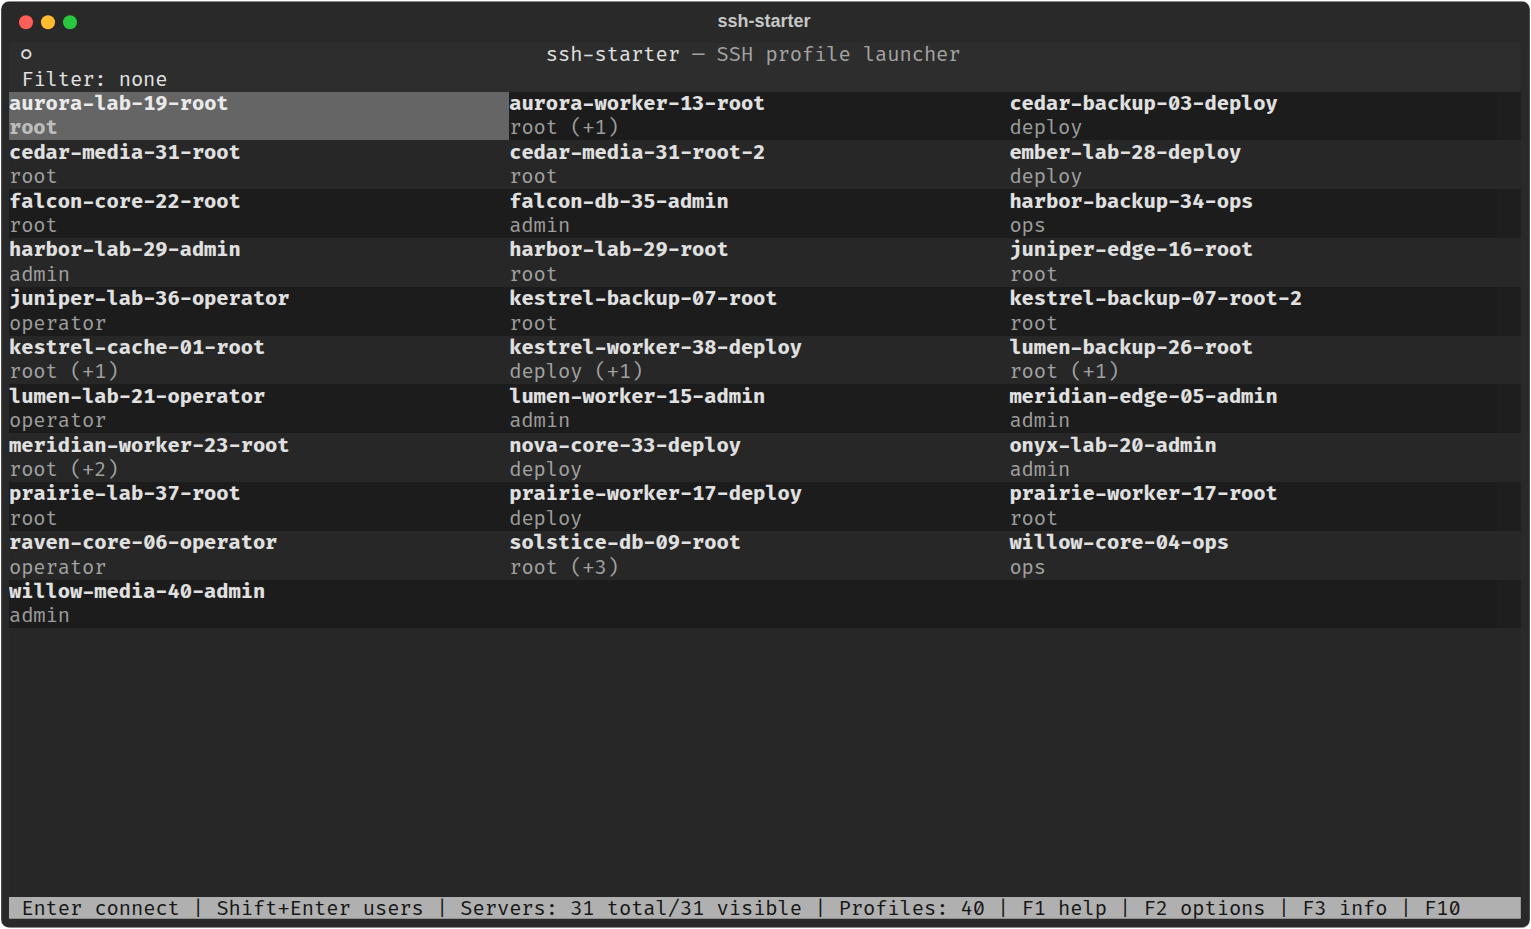
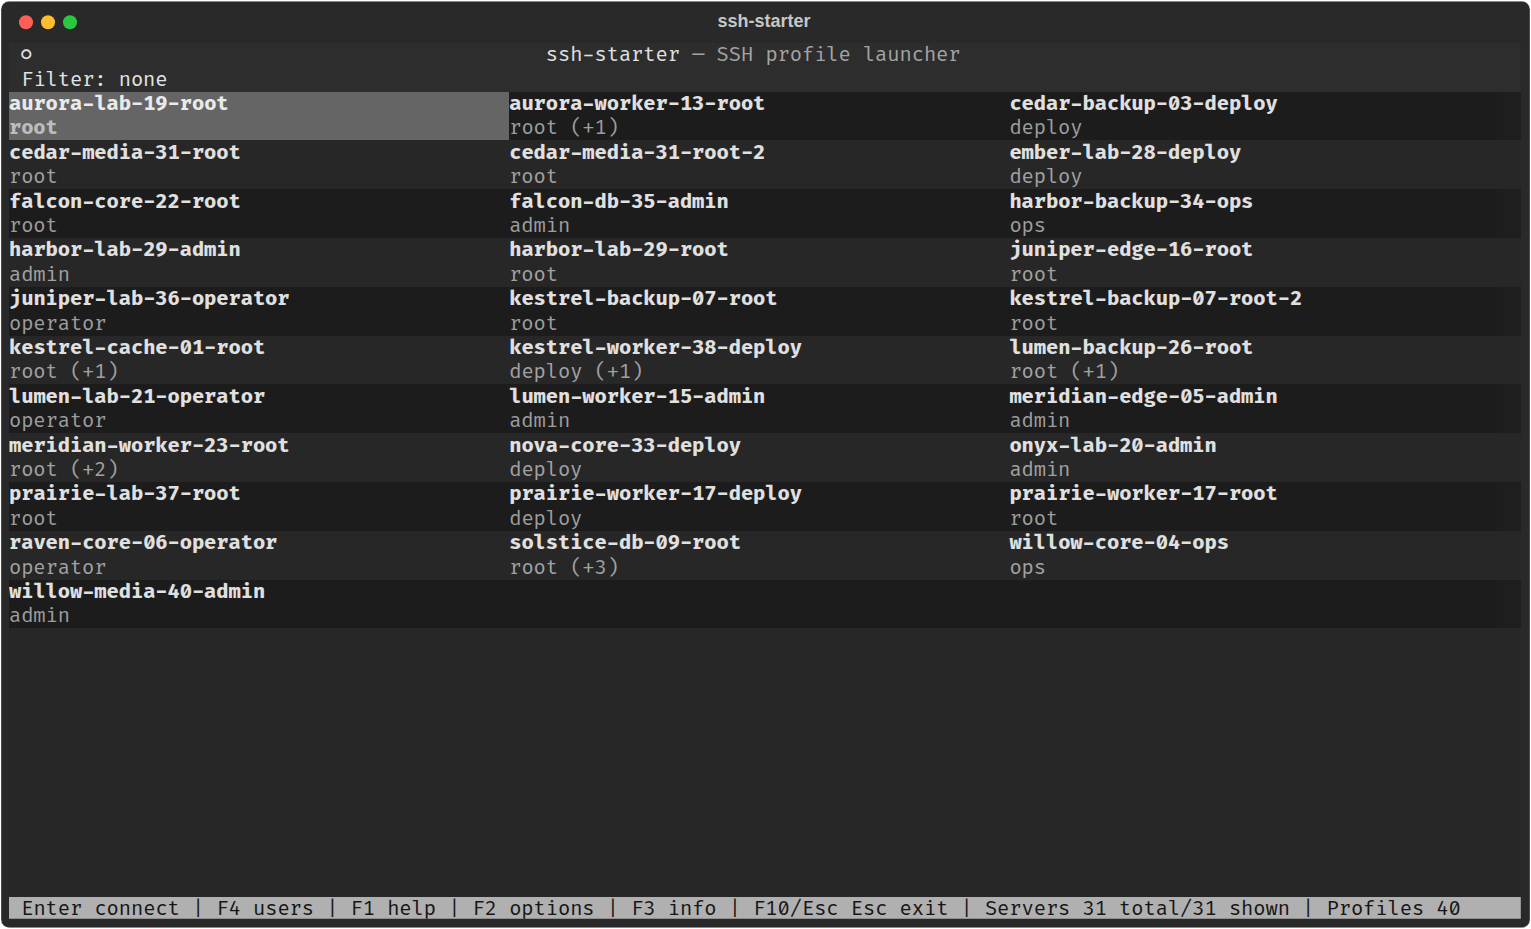
Improve Windows user picker shortcut

Changed region(s): [[0.1228, 0.9677, 0.9517, 0.9989]]

diff --git a/app/ui.py b/app/ui.py
@@ -23,7 +23,7 @@ GRID_COLUMNS = 3
 FIT_HORIZONTAL_RESERVE = 2
 DOUBLE_ESCAPE_SECONDS = 1.25
 SEARCH_EXTRA_CHARS = {"-", "_", ".", "@"}
-USER_PICKER_KEYS = {"shift+enter", "ctrl+enter", "ctrl+j", "ctrl+m"}
+USER_PICKER_KEYS = {"f4", "shift+enter", "ctrl+enter", "ctrl+j", "ctrl+m", "ctrl+@"}
 
 
 class MainProfileGrid(DataTable):
@@ -311,8 +311,9 @@ class HelpScreen(ModalScreen[None]):
 ## Main menu
 
 - `Enter` connects to the selected server with its default profile.
-- `Shift+Enter` opens the user/profile picker.
-- `Ctrl+Enter` is still accepted when the terminal sends it through. Some terminals encode it as `Ctrl+J` or `Ctrl+M`; those are supported too.
+- `F4` opens the user/profile picker.
+- `Shift+Enter` also opens the picker when the terminal reports it distinctly from plain `Enter`.
+- `Ctrl+Enter` is still accepted when the terminal sends it through. Some terminals encode modified Enter keys as `Ctrl+J`, `Ctrl+M`, or `Ctrl+@`; those are supported too.
 - `F1` opens this help.
 - `F2` opens options.
 - `F3` opens details for the selected server's default profile.
@@ -580,10 +581,12 @@ class SshLauncherApp(App[None]):
 
     BINDINGS = [
         Binding("enter", "connect", "Connect"),
+        Binding("f4", "choose_user", "Users", priority=True),
         Binding("shift+enter", "choose_user", "Users", priority=True),
         Binding("ctrl+enter", "choose_user", "Users", show=False, priority=True),
         Binding("ctrl+j", "choose_user", "Users", show=False, priority=True),
         Binding("ctrl+m", "choose_user", "Users", show=False, priority=True),
+        Binding("ctrl+@", "choose_user", "Users", show=False, priority=True),
         Binding("f1", "help", "Help", priority=True),
         Binding("f2", "options", "Options", priority=True),
         Binding("f3", "profile_info", "Info"),
@@ -817,10 +820,10 @@ class SshLauncherApp(App[None]):
         filter_display = self.filter_text or "none"
         self.query_one("#filter-line", Static).update(f"Filter: {filter_display}")
         self.query_one("#status-line", Static).update(
-            "Enter connect | Shift+Enter users | "
-            f"Servers: {len(self.connection_groups)} total/{len(self.filtered_groups)} visible | "
-            f"Profiles: {len(self.inventory.profiles)} | "
-            "F1 help | F2 options | F3 info | F10 exit | Esc Esc exit"
+            "Enter connect | F4 users | F1 help | F2 options | F3 info | "
+            "F10/Esc Esc exit | "
+            f"Servers {len(self.connection_groups)} total/{len(self.filtered_groups)} shown | "
+            f"Profiles {len(self.inventory.profiles)}"
         )
 
     def _selected_group(self) -> SshConnectionGroup | None:

diff --git a/README.md b/README.md
@@ -123,8 +123,9 @@ C:\Users\<user>\.ssh\config
 ## Keys
 
 - `Enter` — connect to the selected server with its default profile.
-- `Shift+Enter` — open the user/profile picker for the selected server.
-- `Ctrl+Enter` — also accepted when the terminal passes it through. Some terminals send this as `Ctrl+J` or `Ctrl+M`; `ssh-starter` handles those too.
+- `F4` — open the user/profile picker for the selected server.
+- `Shift+Enter` — also opens the picker when the terminal reports it distinctly from plain `Enter`.
+- `Ctrl+Enter` — also accepted when the terminal passes it through. Some terminals encode modified Enter keys as `Ctrl+J`, `Ctrl+M`, or `Ctrl+@`; `ssh-starter` handles those too.
 - `F1` — open help.
 - `F2` — open options.
 - `F3` — show details for the selected server's default profile.
@@ -167,7 +168,7 @@ The default profile for a group is selected in this order:
 1. users listed in `preferred_users`;
 2. the first sorted profile in the group.
 
-`Enter` connects with that default profile. `Ctrl+Enter` opens a menu where you can select another user/profile for the same server. Clicking a server in the main grid connects with the default profile; clicking a profile in the picker selects that profile.
+`Enter` connects with that default profile. `F4` opens a menu where you can select another user/profile for the same server. Clicking a server in the main grid connects with the default profile; clicking a profile in the picker selects that profile.
 
 ## Sorting and history
 